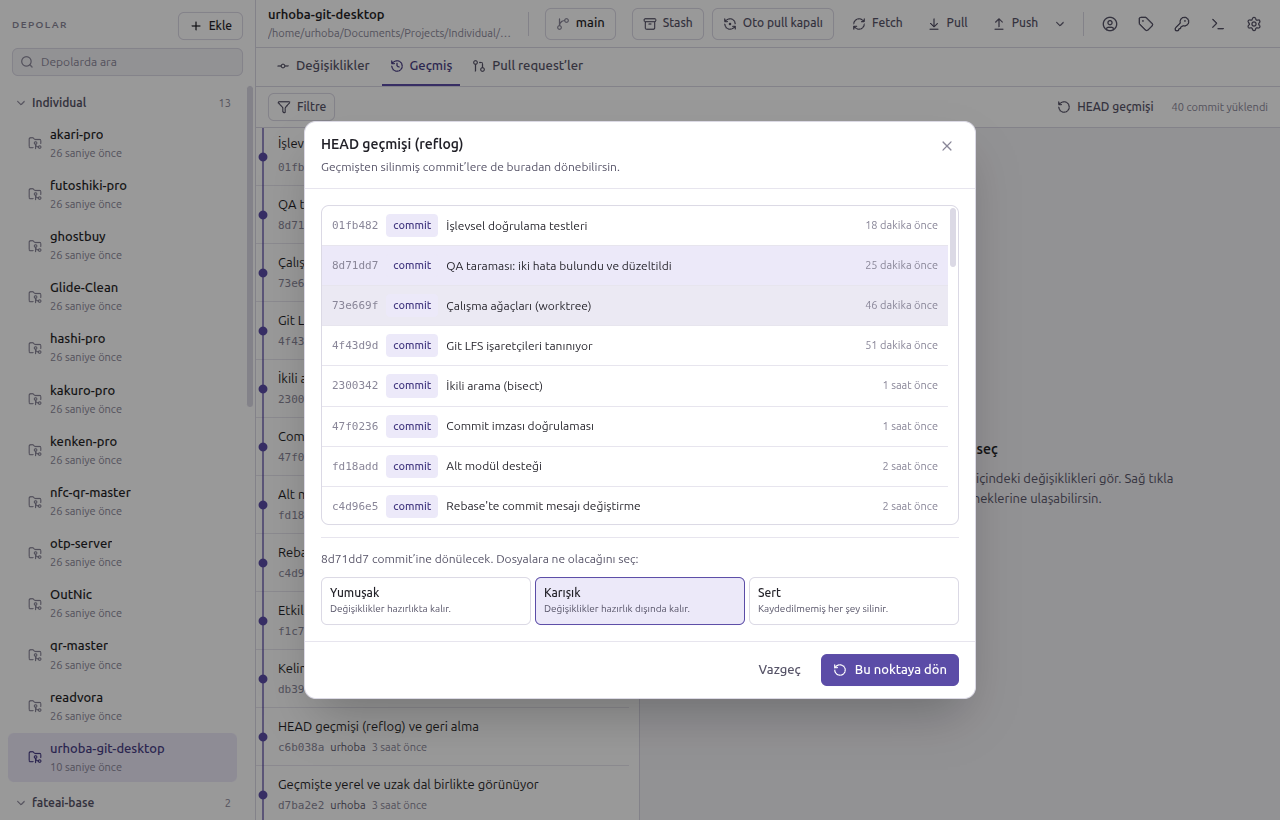
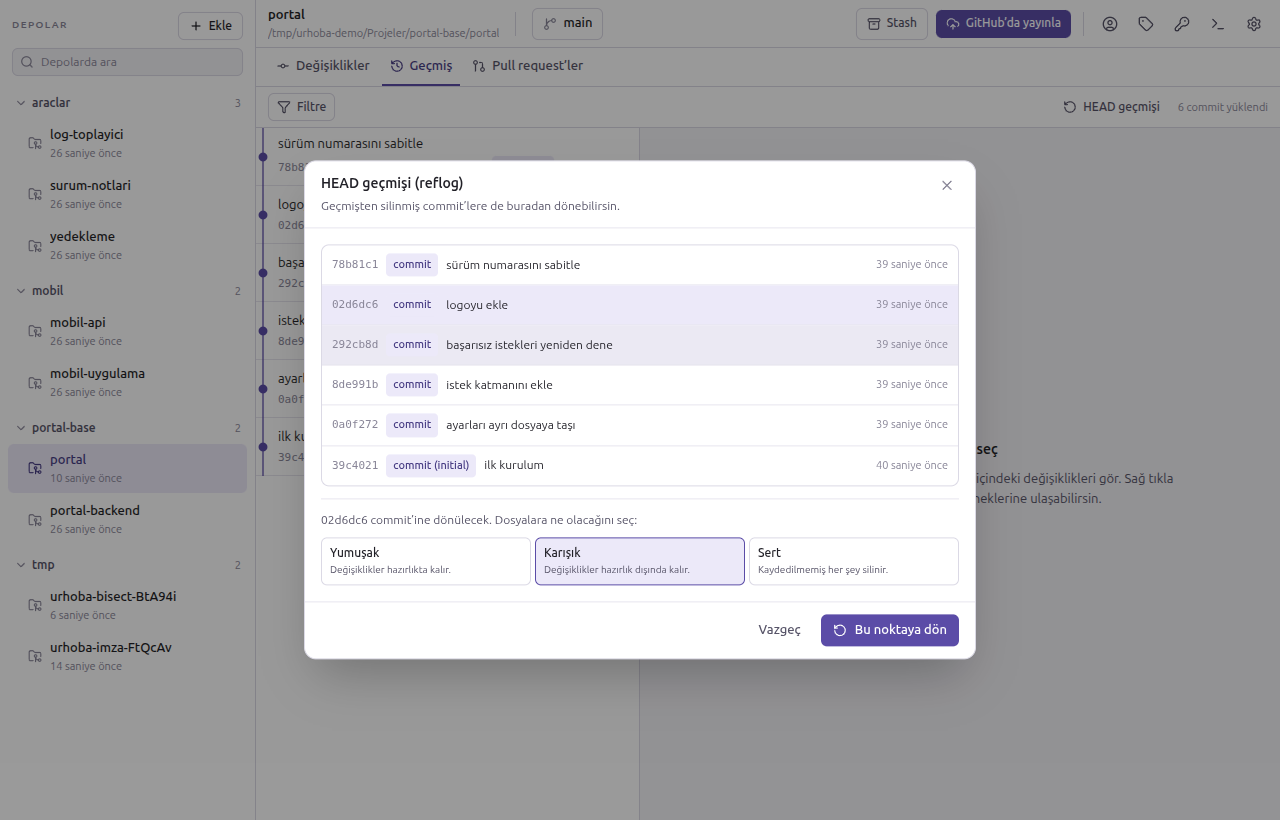
Belgelerdeki görüntüler uydurma bir çalışma alanında üretiliyor
Görüntülerde geliştiricinin yayınlanmamış proje adları ve ev dizini
görünüyordu; depo herkese açıldığında bunlar da açılmış olacaktı. Senaryo
ayrıca o makineye bağlıydı — başka birinde hiçbir depo bulunamıyordu.

Artık senaryo kendi demo ağacını kuruyor: üç grup altında yedi depo ve
ayrıntılı görüntülerin çekildiği, geçmişi dolu bir "portal" deposu. Depoya
blame, kelime farkı ve rebase görüntülerinin anlamlı çıkması için gerçek bir
commit dizisi yazılıyor. `URHOBA_SCAN_DIR` verilirse onun yerine o klasör
taranıyor.

Sekiz belge görüntüsü yeniden üretildi. Hiçbirinde kişisel ad ya da ev dizini
yok.

YOL ÜSTÜNDE DÜZELTİLENLER

- Tarama klasörü `page.evaluate` içinde değişken olarak kullanılıyordu ama o
  kod tarayıcı bağlamında çalışıyor; argüman olarak geçirilmesi gerekiyordu.
  Bunu daha önceki "ev yolunu kaldır" değişikliğimde kırmışım ve senaryo o
  zamandan beri koşmamış.
- Depo seçimi "portal" araması "portal-backend" ile çakışıyordu; kesin
  eşleşmeye çevrildi.
- Blame karesi tek satırlık bir dosyayı gösteriyordu; çok satırlı bir dosyaya
  dokunan commit seçiliyor artık.
- Demo ağacı sabit adlı bir klasörde duruyor; rastgele sonek görüntülerde
  gereksiz gürültüydü.

Koyu tema karesi için ayarlar penceresi kullanıldı: tema IPC ile
değiştirildiğinde arayüz yenilenmiyor (ayar sorgusu tazelenmiyor), dolayısıyla
kareyi arayüzden tema değiştirerek almak gerekiyor.

309 birim + 17 uçtan uca test geçiyor.

diff --git a/e2e/screenshot.spec.ts b/e2e/screenshot.spec.ts
@@ -14,11 +14,113 @@ import path from 'node:path';
 const SHOT_DIR = '/tmp/urhoba-shots';
 
 /*
- * Taranacak klasör. Geliştiricinin ev dizini koda gömülüydü; başka bir
- * makinede senaryo hiçbir depo bulamıyordu. `URHOBA_SCAN_DIR` ile
- * değiştirilebiliyor.
+ * Görüntüler uydurma bir çalışma alanında üretiliyor.
+ *
+ * Önce geliştiricinin kendi depoları taranıyordu; belgelere giren görüntülerde
+ * yayınlanmamış proje adları ve ev dizini görünüyordu. Ayrıca senaryo o
+ * makineye bağlıydı — başka birinde hiçbir depo bulunamıyordu.
+ *
+ * `URHOBA_SCAN_DIR` verilirse o klasör taranıyor; verilmezse aşağıdaki demo
+ * ağacı kuruluyor.
  */
-const SCAN_DIR = process.env.URHOBA_SCAN_DIR ?? path.join(os.homedir(), 'Documents/Projects');
+let scanDir: string;
+/** Ayrıntılı görüntülerin çekildiği, geçmişi dolu demo deposu. */
+let demoRepo: string;
+let demoWorkspaceRoot: string;
+const DEMO_REPO_NAME = 'portal';
+
+function run(args: string[], cwd: string): void {
+  execFileSync('git', args, {
+    cwd,
+    env: { ...process.env, GIT_CONFIG_GLOBAL: '/dev/null', GIT_CONFIG_SYSTEM: '/dev/null' },
+  });
+}
+
+function initRepo(target: string): void {
+  fs.mkdirSync(target, { recursive: true });
+  run(['init', '--initial-branch=main'], target);
+  run(['config', 'user.name', 'Demo Geliştirici'], target);
+  run(['config', 'user.email', 'demo@urhoba.test'], target);
+  run(['config', 'commit.gpgsign', 'false'], target);
+}
+
+function commit(target: string, message: string): void {
+  run(['add', '-A'], target);
+  run(['commit', '-m', message], target);
+}
+
+/**
+ * Klasör yapısından grup çıkarımının görünmesi için depolar üst klasörlere
+ * dağıtılıyor; ana demo deposuna da blame, rebase ve reflog görüntülerinin
+ * anlamlı çıkması için gerçek bir geçmiş yazılıyor.
+ */
+function createDemoWorkspace(): { root: string; main: string } {
+  // Sabit ad: rastgele sonek belgelerdeki görüntülerde gereksiz gürültü.
+  const root = path.join(os.tmpdir(), 'urhoba-demo');
+  fs.rmSync(root, { recursive: true, force: true });
+  fs.mkdirSync(root, { recursive: true });
+  const projects = path.join(root, 'Projeler');
+
+  const layout: Record<string, string[]> = {
+    'portal-base': [DEMO_REPO_NAME, 'portal-backend'],
+    mobil: ['mobil-uygulama', 'mobil-api'],
+    araclar: ['log-toplayici', 'yedekleme', 'surum-notlari'],
+  };
+
+  for (const [group, repos] of Object.entries(layout)) {
+    for (const name of repos) {
+      const target = path.join(projects, group, name);
+      initRepo(target);
+      fs.writeFileSync(path.join(target, 'README.md'), `# ${name}\n`);
+      commit(target, 'ilk kurulum');
+    }
+  }
+
+  const main = path.join(projects, 'portal-base', DEMO_REPO_NAME);
+  const write = (name: string, contents: string) =>
+    fs.writeFileSync(path.join(main, name), contents);
+
+  write('ayar.ts', 'export const timeout = 30;\nexport const retries = 3;\nexport const host = "localhost";\n');
+  commit(main, 'ayarları ayrı dosyaya taşı');
+
+  write('istemci.ts', [
+    'import { timeout } from "./ayar";',
+    '',
+    'export async function iste(yol: string) {',
+    '  const yanit = await fetch(yol, { signal: AbortSignal.timeout(timeout) });',
+    '  if (!yanit.ok) throw new Error("istek başarısız");',
+    '  return yanit.json();',
+    '}',
+    '',
+  ].join('\n'));
+  commit(main, 'istek katmanını ekle');
+
+  write('istemci.ts', [
+    'import { timeout, retries } from "./ayar";',
+    '',
+    'export async function iste(yol: string) {',
+    '  for (let deneme = 0; deneme < retries; deneme += 1) {',
+    '    const yanit = await fetch(yol, { signal: AbortSignal.timeout(timeout) });',
+    '    if (yanit.ok) return yanit.json();',
+    '  }',
+    '  throw new Error("istek başarısız");',
+    '}',
+    '',
+  ].join('\n'));
+  commit(main, 'başarısız istekleri yeniden dene');
+
+  fs.copyFileSync('assets/icon-256.png', path.join(main, 'logo.png'));
+  commit(main, 'logoyu ekle');
+
+  write('surum.ts', 'export const surum = "1.0.0";\n');
+  commit(main, 'sürüm numarasını sabitle');
+
+  // Ekranda görünecek kaydedilmemiş değişiklikler.
+  write('ayar.ts', 'export const timeout = 60;\nexport const retries = 3;\nexport const host = "127.0.0.1";\n');
+  fs.copyFileSync('assets/icon-64.png', path.join(main, 'logo.png'));
+
+  return { root, main };
+}
 
 // Bu dosya normal test koşusunun dışında; `npm run screenshots` ile çalışıyor.
 /*
@@ -28,6 +130,11 @@ const SCAN_DIR = process.env.URHOBA_SCAN_DIR ?? path.join(os.homedir(), 'Documen
 test.setTimeout(240_000);
 
 test('arayüz görüntüleri', async () => {
+  const demo = createDemoWorkspace();
+  demoWorkspaceRoot = demo.root;
+  demoRepo = demo.main;
+  scanDir = process.env.URHOBA_SCAN_DIR ?? path.join(demo.root, 'Projeler');
+
   const userData = fs.mkdtempSync(path.join(os.tmpdir(), 'urhoba-shot-'));
   const app = await electron.launch({
     args: ['.vite/build/main.js', `--user-data-dir=${userData}`],
@@ -38,7 +145,7 @@ test('arayüz görüntüleri', async () => {
 
   await app.evaluate(async ({ dialog }, target) => {
     dialog.showOpenDialog = async () => ({ canceled: false, filePaths: [target] });
-  }, SCAN_DIR);
+  }, scanDir);
 
   // Ekle menüsü
   await page.getByRole('button', { name: 'Ekle' }).click();
@@ -59,7 +166,7 @@ test('arayüz görüntüleri', async () => {
   await page.getByRole('button', { name: 'Vazgeç' }).click();
   await page.evaluate(
     (repo) => window.urhoba.invoke('repo:add', { path: repo }),
-    process.cwd(),
+    demoRepo,
   );
   await page.reload();
   await page.waitForLoadState('domcontentloaded');
@@ -92,26 +199,32 @@ test('arayüz görüntüleri', async () => {
   await page.waitForTimeout(400);
 
   // Gruplu kenar çubuğu: tarama sonuçlarını uygulayıp listeye bakıyoruz.
-  await page.evaluate(async () => {
+  // `scanDir` düğüm tarafında; tarayıcı bağlamına argüman olarak geçmeli.
+  await page.evaluate(async (directory) => {
     const found = await window.urhoba.invoke('repo:scan', {
-      directory: SCAN_DIR,
+      directory,
       maxDepth: 4,
     });
     await window.urhoba.invoke('repo:add-many', {
       paths: found.slice(0, 24).map((repo) => repo.path),
     });
-  });
+  }, scanDir);
   await page.reload();
   await page.waitForLoadState('domcontentloaded');
   await page.waitForTimeout(2500);
   await page.screenshot({ path: `${SHOT_DIR}/10-gruplu-liste.png` });
+
 
   // Satır geçmişi: geçmişten bir commit açıp dosyasına çift tıklıyoruz.
   // Bu yol çalışma dizininin o anki durumundan bağımsız.
   await page.getByRole('tab', { name: 'Geçmiş' }).click();
   await page.waitForTimeout(2000);
   // Commit satırları alt kenarlıklı butonlar; ilkini seçiyoruz.
-  await page.locator('button.border-b').first().click();
+  /*
+   * Çok satırlı bir dosyaya dokunan commit seçiliyor: tek satırlık bir dosyada
+   * satır geçmişi ekranı hiçbir şey anlatmıyor.
+   */
+  await page.locator('button.border-b').nth(2).click();
   await page.waitForTimeout(2000);
   /*
    * Belirli bir dosya adı aramıyoruz: son commit'in hangi dosyalara dokunduğu
@@ -163,9 +276,10 @@ test('arayüz görüntüleri', async () => {
     await page.screenshot({ path: `${SHOT_DIR}/23-imza.png` });
 
     // Sonraki adımlar asıl depoda sürüyor; seçimi geri alıyoruz.
-    await page.getByPlaceholder('Depolarda ara').fill('urhoba-git-desktop');
+    await page.getByPlaceholder('Depolarda ara').fill(DEMO_REPO_NAME);
     await page.waitForTimeout(500);
-    await page.getByText('urhoba-git-desktop').first().click();
+    // Kesin eşleşme: "portal-backend" de "portal" alt dizesini içeriyor.
+  await page.getByText(DEMO_REPO_NAME, { exact: true }).first().click();
     await page.waitForTimeout(1500);
     await page.getByPlaceholder('Depolarda ara').fill('');
     await page.waitForTimeout(500);
@@ -204,9 +318,10 @@ test('arayüz görüntüleri', async () => {
   await page.waitForTimeout(1500);
   await page.screenshot({ path: `${SHOT_DIR}/24-bisect.png` });
 
-  await page.getByPlaceholder('Depolarda ara').fill('urhoba-git-desktop');
+  await page.getByPlaceholder('Depolarda ara').fill(DEMO_REPO_NAME);
   await page.waitForTimeout(500);
-  await page.getByText('urhoba-git-desktop').first().click();
+  // Kesin eşleşme: "portal-backend" de "portal" alt dizesini içeriyor.
+  await page.getByText(DEMO_REPO_NAME, { exact: true }).first().click();
   await page.waitForTimeout(1500);
   await page.getByPlaceholder('Depolarda ara').fill('');
   await page.waitForTimeout(500);
@@ -493,6 +608,8 @@ test('arayüz görüntüleri', async () => {
   await page.waitForTimeout(400);
   await page.screenshot({ path: `${SHOT_DIR}/09-koyu-ana-ekran.png` });
 
+
   await app.close();
   fs.rmSync(userData, { recursive: true, force: true });
+  fs.rmSync(demoWorkspaceRoot, { recursive: true, force: true });
 });
